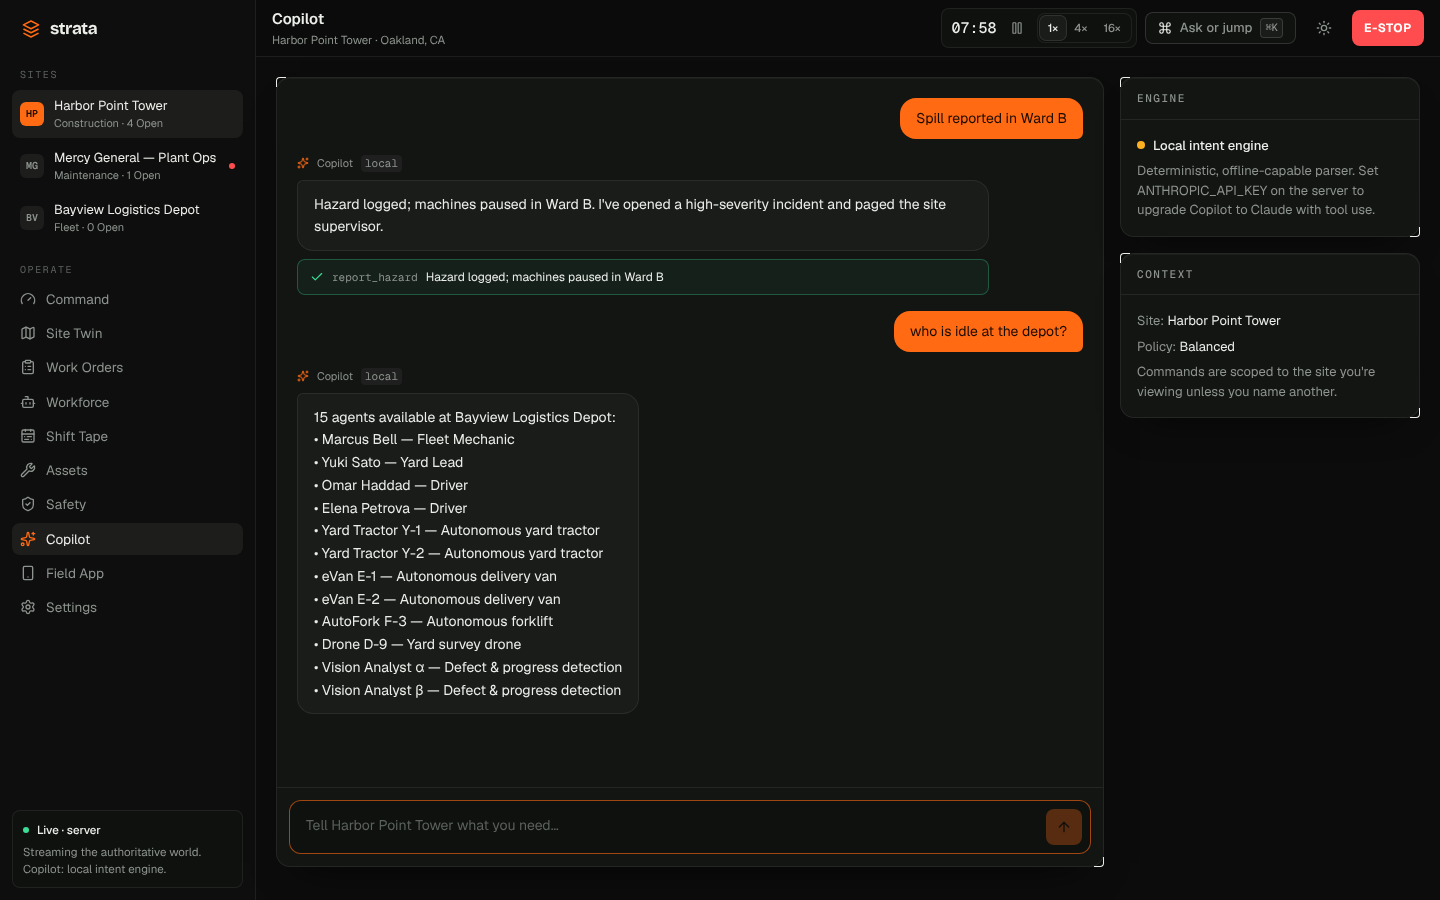
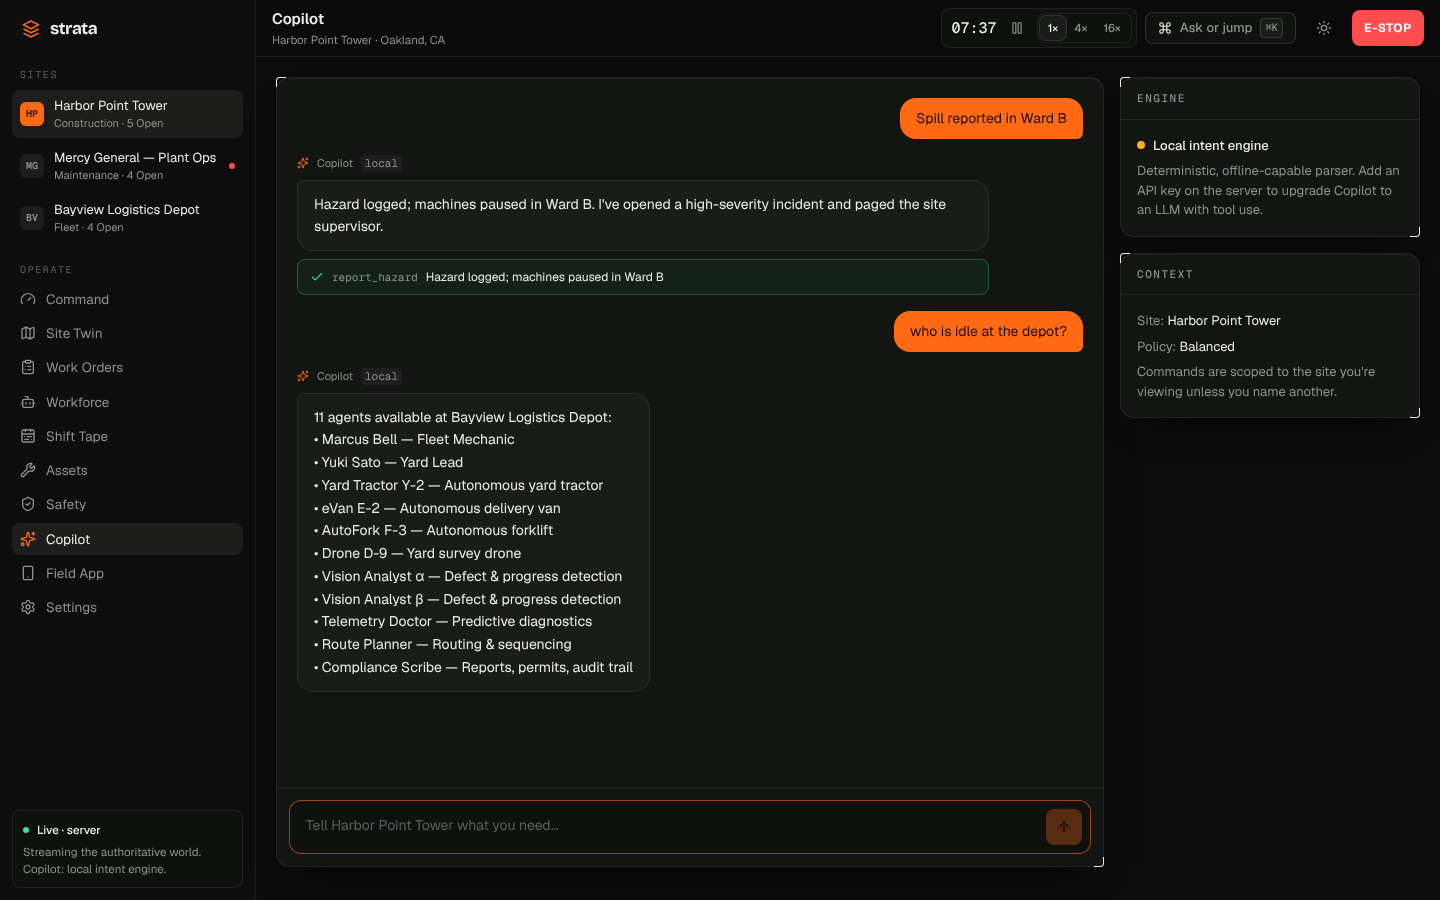
Use neutral AI Copilot naming across the UI, docs and server
Rename the optional LLM copilot module to server/ai-copilot.ts and replace vendor-specific wording in user-facing text, docs and screenshots.

diff --git a/server/ai-copilot.ts b/server/ai-copilot.ts
@@ -1,7 +1,7 @@
 /**
- * Claude-powered Copilot. Enabled when ANTHROPIC_API_KEY (or another
- * Anthropic credential) is configured on the server. Claude reads a compact
- * view of the world and operates it through the same commands the UI uses —
+ * LLM-powered Copilot. Enabled when ANTHROPIC_API_KEY (or another Anthropic
+ * credential) is configured on the server. The model reads a compact view of
+ * the world and operates it through the same commands the UI uses —
  * so every action stays validated by the engine and lands in the audit log.
  */
 import Anthropic from '@anthropic-ai/sdk';
@@ -20,7 +20,7 @@ import {
 
 const MODEL = process.env.STRATA_MODEL ?? 'claude-opus-5-5';
 
-export const claudeEnabled = () => Boolean(process.env.ANTHROPIC_API_KEY || process.env.ANTHROPIC_AUTH_TOKEN);
+export const aiEnabled = () => Boolean(process.env.ANTHROPIC_API_KEY || process.env.ANTHROPIC_AUTH_TOKEN);
 
 let client: Anthropic | null = null;
 const getClient = () => (client ??= new Anthropic());
@@ -165,7 +165,7 @@ function liveState(world: World, siteId?: string) {
   return { clock: clockLabel(world.clock), policy: world.policy, kpis: kpis(world), agents, orders, assets, incidents };
 }
 
-export async function runClaudeCopilot(world: World, input: string, ctx: { siteId?: string }): Promise<CopilotReply> {
+export async function runAiCopilot(world: World, input: string, ctx: { siteId?: string }): Promise<CopilotReply> {
   const actions: CopilotAction[] = [];
   const messages: Anthropic.Beta.BetaMessageParam[] = [
     {
@@ -197,7 +197,7 @@ export async function runClaudeCopilot(world: World, input: string, ctx: { siteI
         .map((b) => b.text)
         .join('\n')
         .trim();
-      return { reply: text || 'Done.', actions, engine: 'claude' };
+      return { reply: text || 'Done.', actions, engine: 'ai' };
     }
 
     messages.push({ role: 'assistant', content: response.content });
@@ -221,5 +221,5 @@ export async function runClaudeCopilot(world: World, input: string, ctx: { siteI
     });
     messages.push({ role: 'user', content: results });
   }
-  return { reply: 'I took the actions above but ran out of steps to summarise — check the event log.', actions, engine: 'claude' };
+  return { reply: 'I took the actions above but ran out of steps to summarise — check the event log.', actions, engine: 'ai' };
 }

diff --git a/web/src/pages/app/Copilot.tsx b/web/src/pages/app/Copilot.tsx
@@ -53,7 +53,7 @@ export default function Copilot() {
                 ) : (
                   <div className="max-w-[88%] space-y-2">
                     <div className="flex items-center gap-2 text-[11px] text-muted">
-                      <Sparkles className="size-3 text-accent" /> Copilot {m.reply && <span className="mono rounded bg-text/5 px-1">{m.reply.engine === 'claude' ? 'claude' : 'local'}</span>}
+                      <Sparkles className="size-3 text-accent" /> Copilot {m.reply && <span className="mono rounded bg-text/5 px-1">{m.reply.engine === 'ai' ? 'ai' : 'local'}</span>}
                     </div>
                     <div className="rounded-2xl rounded-tl-md border border-line bg-raised px-4 py-3 text-[14px] leading-relaxed whitespace-pre-line">
                       {m.pending ? <span className="mono blink text-[12px] text-muted">thinking through constraints…</span> : m.text}
@@ -108,13 +108,13 @@ export default function Copilot() {
         <Card title="Engine">
           <div className="text-[13px]">
             <div className="flex items-center gap-2 font-medium">
-              <span className={cx('size-2 rounded-full', engine === 'claude' ? 'bg-ai' : 'bg-warn')} />
-              {engine === 'claude' ? 'Claude (server)' : 'Local intent engine'}
+              <span className={cx('size-2 rounded-full', engine === 'ai' ? 'bg-ai' : 'bg-warn')} />
+              {engine === 'ai' ? 'AI model (server)' : 'Local intent engine'}
             </div>
             <p className="mt-1.5 text-muted">
-              {engine === 'claude'
-                ? 'Claude reads a compact view of the world and acts through typed tools that mirror the UI commands.'
-                : 'Deterministic, offline-capable parser. Set ANTHROPIC_API_KEY on the server to upgrade Copilot to Claude with tool use.'}
+              {engine === 'ai'
+                ? 'The model reads a compact view of the world and acts through typed tools that mirror the UI commands.'
+                : 'Deterministic, offline-capable parser. Add an API key on the server to upgrade Copilot to an LLM with tool use.'}
             </p>
           </div>
         </Card>

diff --git a/server/index.ts b/server/index.ts
@@ -9,7 +9,7 @@ import { Hono } from 'hono';
 import { streamSSE } from 'hono/streaming';
 import { existsSync, readFileSync } from 'node:fs';
 import { applyCommand, createWorld, runLocalCopilot, snapshot, step, type Command, type Snapshot } from '../core/index';
-import { claudeEnabled, runClaudeCopilot } from './claude';
+import { aiEnabled, runAiCopilot } from './ai-copilot';
 
 const PORT = Number(process.env.PORT ?? 8787);
 const TICK_MS = 500;
@@ -26,7 +26,7 @@ setInterval(() => {
 
 const app = new Hono();
 
-app.get('/api/health', (c) => c.json({ ok: true, name: 'strata', tick: world.tick, copilot: claudeEnabled() ? 'claude' : 'local' }));
+app.get('/api/health', (c) => c.json({ ok: true, name: 'strata', tick: world.tick, copilot: aiEnabled() ? 'ai' : 'local' }));
 
 app.get('/api/state', (c) => c.json(latest));
 
@@ -61,13 +61,13 @@ app.post('/api/command', async (c) => {
 app.post('/api/copilot', async (c) => {
   const body = (await c.req.json().catch(() => ({}))) as { text?: string; siteId?: string };
   const text = (body.text ?? '').slice(0, 1000);
-  if (claudeEnabled()) {
+  if (aiEnabled()) {
     try {
-      const reply = await runClaudeCopilot(world, text, { siteId: body.siteId });
+      const reply = await runAiCopilot(world, text, { siteId: body.siteId });
       latest = snapshot(world);
       return c.json(reply);
     } catch (err) {
-      console.warn('[copilot] Claude unavailable, using local engine:', err instanceof Error ? err.message : err);
+      console.warn('[copilot] AI model unavailable, using local engine:', err instanceof Error ? err.message : err);
     }
   }
   const reply = runLocalCopilot(world, text, { siteId: body.siteId });
@@ -82,5 +82,5 @@ if (process.env.NODE_ENV === 'production' && existsSync('./dist/index.html')) {
 }
 
 serve({ fetch: app.fetch, port: PORT }, (info) => {
-  console.log(`▲ Strata API on http://localhost:${info.port}  ·  copilot: ${claudeEnabled() ? 'Claude' : 'local intent engine'}`);
+  console.log(`▲ Strata API on http://localhost:${info.port}  ·  copilot: ${aiEnabled() ? 'AI model' : 'local intent engine'}`);
 });

diff --git a/web/src/pages/landing/Landing.tsx b/web/src/pages/landing/Landing.tsx
@@ -359,7 +359,7 @@ export default function Landing() {
           <div className="grid gap-4 lg:grid-cols-3">
             {[
               { name: 'Pilot', price: '$0', unit: '30 days · 1 site', feats: ['Up to 25 agents', 'Edge mode + field app', 'Local Copilot', 'Guided onboarding'], cta: 'Start a pilot' },
-              { name: 'Site', price: '$1,500', unit: 'per site / month + $40 per machine', feats: ['Unlimited crew', 'Claude-powered Copilot', 'Predictive maintenance', 'Safety layer & audit log', 'API & webhooks'], cta: 'Talk to us', featured: true },
+              { name: 'Site', price: '$1,500', unit: 'per site / month + $40 per machine', feats: ['Unlimited crew', 'AI Copilot (LLM)', 'Predictive maintenance', 'Safety layer & audit log', 'API & webhooks'], cta: 'Talk to us', featured: true },
               { name: 'Network', price: 'Custom', unit: 'portfolios & enterprises', feats: ['Cross-site dispatch', 'SSO / SCIM', 'On-prem edge gateways', 'Custom robot adapters', 'Dedicated success team'], cta: 'Contact sales' },
             ].map((p) => (
               <div key={p.name} className={cx('card viewfinder flex flex-col p-6', p.featured && 'ring-1 ring-accent/60')}>

diff --git a/web/src/lib/store.ts b/web/src/lib/store.ts
@@ -38,7 +38,7 @@ export interface Toast {
 interface State {
   snap: Snapshot | null;
   mode: Mode;
-  copilotEngine: 'claude' | 'local';
+  copilotEngine: 'ai' | 'local';
   siteId: string;
   selectedAgentId: string | null;
   selectedWoId: string | null;
@@ -160,7 +160,7 @@ async function startLive(): Promise<boolean> {
     const res = await fetch('/api/health', { signal: ctrl.signal });
     clearTimeout(timer);
     if (!res.ok) return false;
-    const health = (await res.json()) as { ok: boolean; copilot: 'claude' | 'local' };
+    const health = (await res.json()) as { ok: boolean; copilot: 'ai' | 'local' };
     if (!health.ok) return false;
     useStrata.setState({ copilotEngine: health.copilot });
   } catch {

diff --git a/web/src/layouts/AppShell.tsx b/web/src/layouts/AppShell.tsx
@@ -19,7 +19,7 @@ function ModePill() {
         <span className="font-medium">{label}</span>
       </div>
       <div className="mt-1 text-muted">
-        {mode === 'edge' ? 'Running the engine locally — works offline on site.' : 'Streaming the authoritative world.'} Copilot: {engine === 'claude' ? 'Claude' : 'local intent engine'}.
+        {mode === 'edge' ? 'Running the engine locally — works offline on site.' : 'Streaming the authoritative world.'} Copilot: {engine === 'ai' ? 'AI model' : 'local intent engine'}.
       </div>
     </div>
   );

diff --git a/web/src/pages/app/Settings.tsx b/web/src/pages/app/Settings.tsx
@@ -11,7 +11,7 @@ const INTEGRATIONS = [
   { name: 'Samsara / Geotab', kind: 'Vehicle telematics', status: 'Planned' },
   { name: 'BACnet / Modbus', kind: 'Building & asset telemetry', status: 'Planned' },
   { name: 'Maximo / UpKeep', kind: 'CMMS work orders', status: 'Planned' },
-  { name: 'Claude', kind: 'Copilot reasoning (optional)', status: 'Built in' },
+  { name: 'LLM Copilot', kind: 'Natural-language operations (optional)', status: 'Built in' },
 ];
 
 const FACTOR_LABEL: Record<string, string> = {

diff --git a/core/copilot.ts b/core/copilot.ts
@@ -3,7 +3,7 @@
  *
  * It turns operator phrasing ("send a drone to inspect the east wing asap",
  * "pause robots in the crane zone") into world commands. It runs everywhere,
- * needs no network, and is the fallback when the Claude-powered copilot is not
+ * needs no network, and is the fallback when the server's AI copilot is not
  * configured on the server.
  */
 import { applyCommand } from './engine';

diff --git a/core/types.ts b/core/types.ts
@@ -316,5 +316,5 @@ export interface CopilotAction {
 export interface CopilotReply {
   reply: string;
   actions: CopilotAction[];
-  engine: 'claude' | 'local';
+  engine: 'ai' | 'local';
 }

diff --git a/README.md b/README.md
@@ -8,7 +8,7 @@
 
 Inspired by the Y Combinator Request for Startups theme *"New operating systems for the physical world: software that coordinates workers, robots and AI in construction, maintenance and fleets."*
 
-`React 19` · `TypeScript` · `Tailwind v4` · `Vite` · `Hono` · `Server-Sent Events` · `Claude (optional)` · `Vitest`
+`React 19` · `TypeScript` · `Tailwind v4` · `Vite` · `Hono` · `Server-Sent Events` · `LLM Copilot (optional)` · `Vitest`
 
 </div>
 
@@ -40,7 +40,7 @@ Every construction site, hospital campus and logistics yard is turning into a **
 | **Shift Tape** | Swimlane timeline of who did what and when, including travel and projected finish. |
 | **Assets** | Predictive maintenance. Health rings, trends and telemetry. Sensors raise work orders on their own. |
 | **Safety** | Proximity interlocks, hazard reports, geofence holds and an incident log with resolve actions. |
-| **Copilot** | Run the site in plain language. Uses Claude tool use when a key is set, otherwise a deterministic local intent engine. Every action comes back with a receipt. |
+| **Copilot** | Run the site in plain language. Uses an LLM with tool use when an API key is set, otherwise a deterministic local intent engine. Every action comes back with a receipt. |
 | **Field App** | The crew's phone view: one job at a time, the next hand-off, a big *Mark step done* button, and a hazard button wired to the machines. |
 | **⌘K** | One bar to jump anywhere or tell Copilot what to do. `g` + key shortcuts for every page. |
 
@@ -106,14 +106,14 @@ Open <http://localhost:5173>. Press **⌘K / Ctrl+K** and try:
 - `Optimise for safety`
 - `Give me the shift brief`
 
-### Claude-powered Copilot (optional)
+### LLM-powered Copilot (optional)
 
 ```bash
 cp .env.example .env    # then set ANTHROPIC_API_KEY
 ANTHROPIC_API_KEY=sk-ant-... npm run dev:server
 ```
 
-With a key set, `/api/copilot` uses Claude with typed tools that mirror the engine's commands. Every call still goes through the engine's validation. Without a key, or if a call fails, the local intent engine answers.
+With a key set, `/api/copilot` uses an LLM with typed tools that mirror the engine's commands. Every call still goes through the engine's validation. Without a key, or if a call fails, the local intent engine answers.
 
 ## Scripts
 
@@ -134,7 +134,7 @@ With a key set, `/api/copilot` uses Claude with typed tools that mirror the engi
 
 ```
 core/      Pure domain engine: types, seed world, templates, dispatcher, tick loop, insights, local Copilot (+ tests)
-server/    Hono API: SSE stream, commands, Claude Copilot, static hosting in production
+server/    Hono API: SSE stream, commands, LLM Copilot, static hosting in production
 web/       React app: landing page, app shell, ⌘K, Site Twin, pages, design tokens
 docs/      Product brief/prompt, architecture, screenshots
 ```

diff --git a/docs/ARCHITECTURE.md b/docs/ARCHITECTURE.md
@@ -11,7 +11,7 @@
                                              │ same Command / Snapshot types
 ┌────────────────────────── server (Hono on Node) ─────────────────────────┐
 │  GET  /api/health   GET /api/state   GET /api/stream (SSE, 2 Hz)          │
-│  POST /api/command  POST /api/copilot  (Claude tool use → local fallback) │
+│  POST /api/command  POST /api/copilot  (LLM tool use → local fallback)    │
 │  serves dist/ in production                                               │
 └────────────────────────────────────────────┬─────────────────────────────┘
                                              │
@@ -77,10 +77,10 @@ Commands and Copilot run against whichever world is active.
 
 ## Copilot
 
-`POST /api/copilot` uses Claude when `ANTHROPIC_API_KEY` is set
-(`server/claude.ts`): the system prompt carries a cached catalog of sites, zones,
+`POST /api/copilot` uses an LLM when `ANTHROPIC_API_KEY` is set
+(`server/ai-copilot.ts`): the system prompt carries a cached catalog of sites, zones,
 templates and assets; tools mirror the engine's commands plus a
-`get_live_state` reader. Every tool call goes through `applyCommand`, so Claude
+`get_live_state` reader. Every tool call goes through `applyCommand`, so the model
 can never bypass the engine's validation. On any failure — or with no key — the
 deterministic `runLocalCopilot` (`core/copilot.ts`) answers instead.
 

diff --git a/docs/PROMPT.md b/docs/PROMPT.md
@@ -43,7 +43,7 @@ an engineer, an investor, or an AI coding agent.
 > 4. *Plain-language control.* A Copilot turns "send a drone to inspect the east
 >    wing facade asap" or "pause robots in the crane zone" into validated
 >    commands — the same commands the UI issues, with the same audit trail.
->    Use Claude with tool use when an API key is present; fall back to a
+>    Use an LLM with tool use when an API key is present; fall back to a
 >    deterministic local intent engine otherwise.
 > 5. *Predictive.* Assets stream health telemetry; when health crosses a
 >    threshold, an AI agent raises the work order itself.
